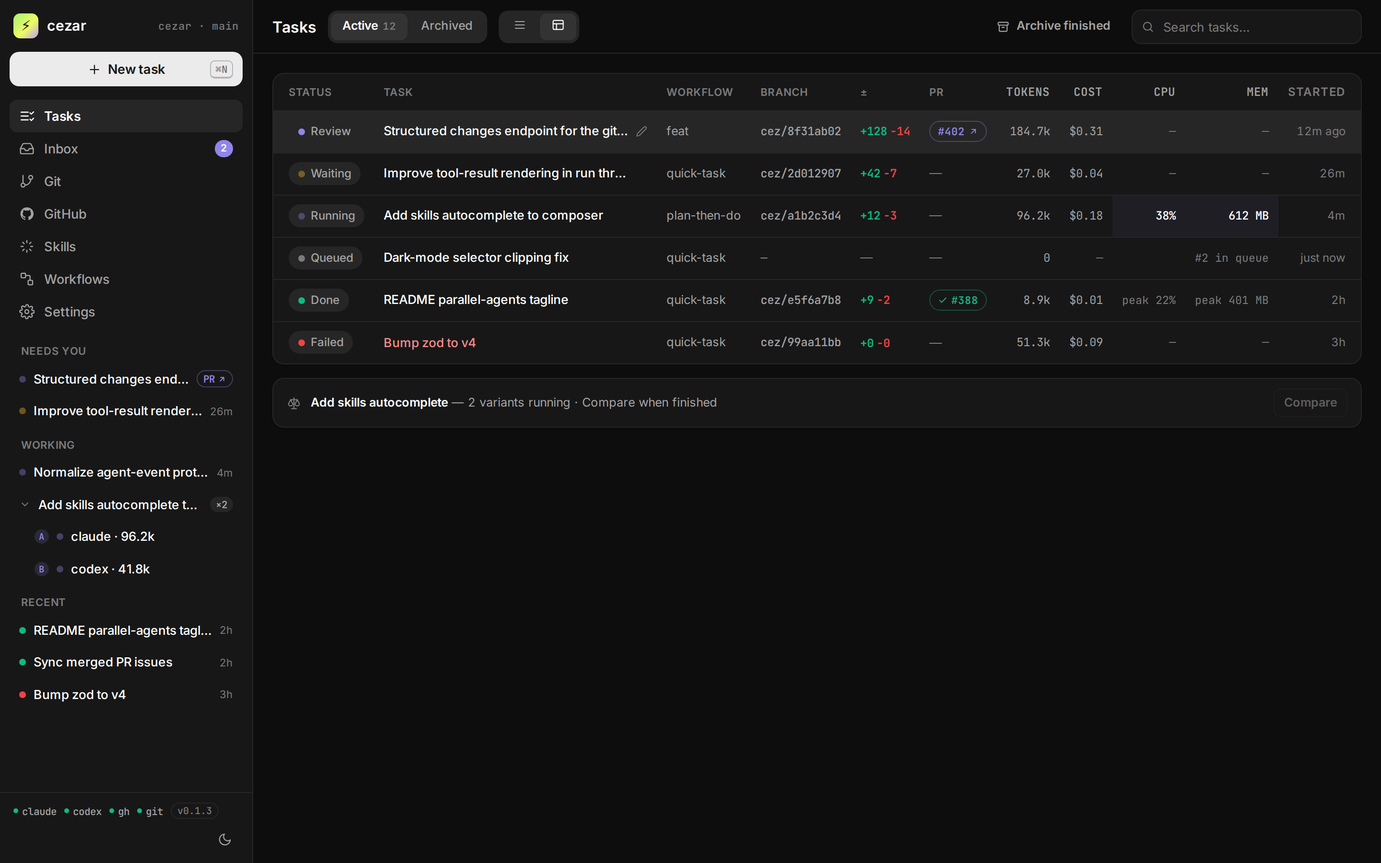
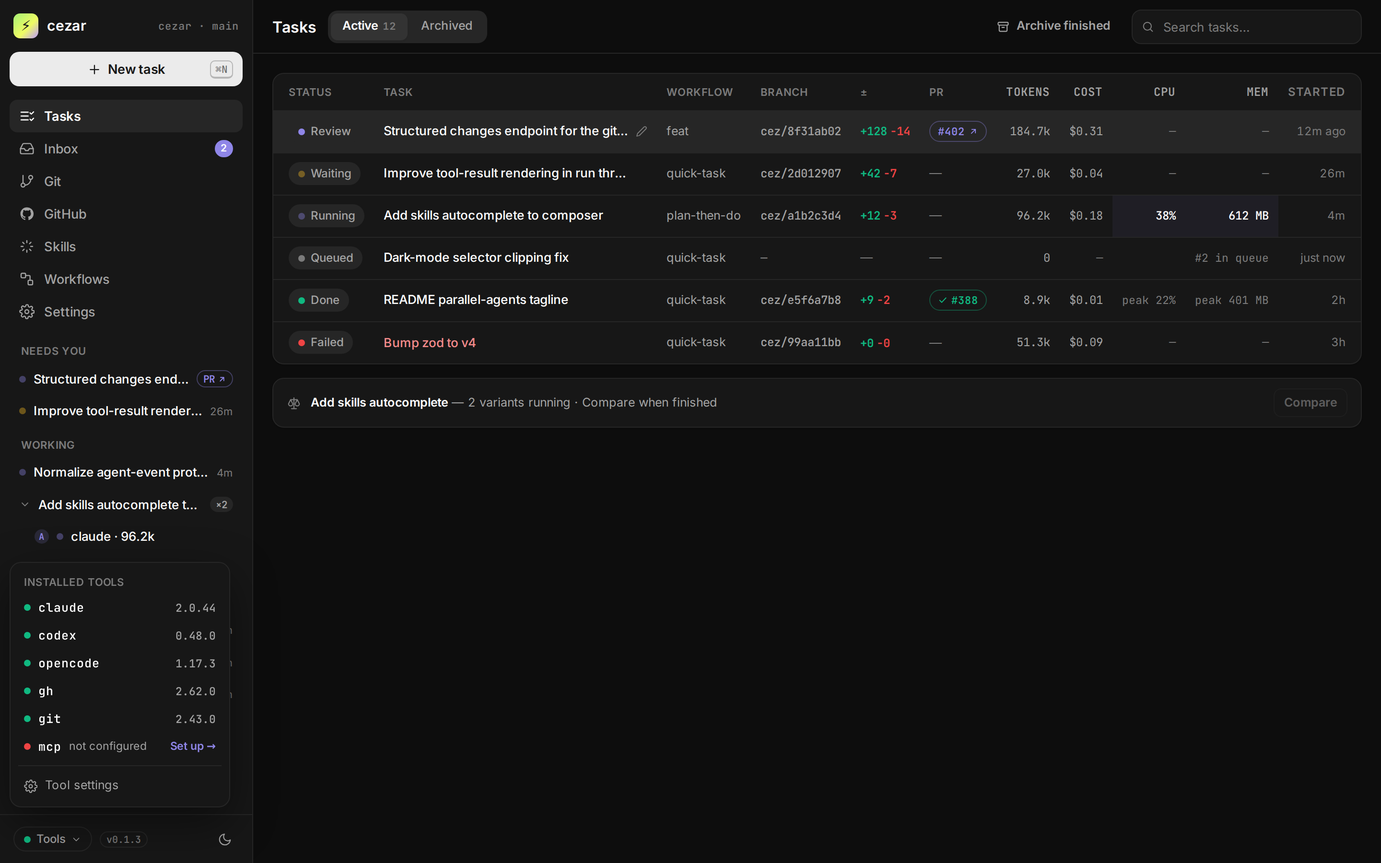
docs: de-brand the redesign (neutral naming), tools dropdown, drop obsolete view toggle, refresh all screenshots
- rename spec/plan/analysis to cockpit-ui-redesign; research file to agent-desktop-apps-ux
- remove inspiration branding from all narrative; keep factual backend names (claude/codex/opencode CLIs)
- sidebar footer: Tools dropdown (hover=versions; menu lists installed tools + versions, setup link, cog -> settings)
- tasks-home: remove list/table toggle (main's PR #392 behavior)
- reshoot all 14 screenshots

diff --git a/docs/mockups/tasks-home.html b/docs/mockups/tasks-home.html
@@ -32,11 +32,36 @@
     background: color-mix(in srgb, var(--violet) 16%, transparent); color: var(--violet);
   }
 
-  .side-foot { flex-wrap: wrap; row-gap: 6px; }
-  .env-led { display: inline-flex; align-items: center; gap: 4px; font: 500 10.5px var(--mono); color: var(--muted-foreground); }
-  .env-led i { width: 5px; height: 5px; border-radius: 999px; background: var(--success); }
+  .side-foot { position: relative; flex-wrap: wrap; row-gap: 6px; }
+  .tools-chip .dot { width: 7px; height: 7px; border-radius: 999px; flex: none; }
   .ver-chip { font: 500 10px var(--mono); color: var(--soft-foreground); border: 1px solid var(--border); border-radius: 999px; padding: 1px 6px; }
   .theme-btn { margin-left: auto; }
+
+  /* tools dropdown (shown open in this mockup) */
+  .tools-menu {
+    position: absolute; left: 10px; bottom: calc(100% + 8px); width: 230px;
+    background: var(--card); border: 1px solid var(--border);
+    border-radius: var(--radius-lg); box-shadow: var(--shadow-modal);
+    padding: 6px; z-index: 30;
+  }
+  .tools-menu .menu-label {
+    font-size: 11px; font-weight: 600; text-transform: uppercase; letter-spacing: .04em;
+    color: var(--soft-foreground); padding: 6px 8px 4px;
+  }
+  .tool-row { display: flex; align-items: center; gap: 8px; padding: 6px 8px; border-radius: var(--radius-sm); }
+  .tool-row:hover { background: var(--muted); }
+  .tool-row .dot { width: 7px; height: 7px; border-radius: 999px; flex: none; }
+  .tool-row .name { font: 500 12.5px var(--mono); }
+  .tool-row .ver { margin-left: auto; font: 500 11.5px var(--mono); color: var(--muted-foreground); font-variant-numeric: tabular-nums; }
+  .tool-row .miss { font-size: 11.5px; color: var(--muted-foreground); }
+  .tool-row .setup { margin-left: auto; font-size: 11.5px; font-weight: 600; color: var(--violet); }
+  .tools-menu .divider { margin: 5px 2px; }
+  .tools-settings {
+    display: flex; align-items: center; gap: 8px; width: 100%;
+    padding: 6px 8px; border-radius: var(--radius-sm);
+    font-size: 12.5px; color: var(--muted-foreground);
+  }
+  .tools-settings:hover { background: var(--muted); color: var(--foreground); }
 
   /* ---------- main ---------- */
   .page-head {
@@ -119,6 +144,7 @@
 
   @media (max-width: 767px) {
     .page-head, .table-wrap { display: none; }
+    .tools-menu { display: none; } /* sidebar is hidden on mobile */
     .content { padding: 12px 12px calc(90px + env(safe-area-inset-bottom)); }
 
     .cards-list { display: flex; flex-direction: column; gap: 10px; }
@@ -257,10 +283,49 @@
     </div>
 
     <div class="side-foot">
-      <span class="env-led"><i></i>claude</span>
-      <span class="env-led"><i></i>codex</span>
-      <span class="env-led"><i></i>gh</span>
-      <span class="env-led"><i></i>git</span>
+      <div class="tools-menu">
+        <div class="menu-label">Installed tools</div>
+        <div class="tool-row">
+          <span class="dot dot-success"></span>
+          <span class="name">claude</span>
+          <span class="ver">2.0.44</span>
+        </div>
+        <div class="tool-row">
+          <span class="dot dot-success"></span>
+          <span class="name">codex</span>
+          <span class="ver">0.48.0</span>
+        </div>
+        <div class="tool-row">
+          <span class="dot dot-success"></span>
+          <span class="name">opencode</span>
+          <span class="ver">1.17.3</span>
+        </div>
+        <div class="tool-row">
+          <span class="dot dot-success"></span>
+          <span class="name">gh</span>
+          <span class="ver">2.62.0</span>
+        </div>
+        <div class="tool-row">
+          <span class="dot dot-success"></span>
+          <span class="name">git</span>
+          <span class="ver">2.43.0</span>
+        </div>
+        <div class="tool-row">
+          <span class="dot dot-danger"></span>
+          <span class="name">mcp</span>
+          <span class="miss">not configured</span>
+          <a class="setup" href="#">Set up →</a>
+        </div>
+        <hr class="divider">
+        <a class="tools-settings" href="#">
+          <svg width="14" height="14" viewBox="0 0 24 24" fill="none" stroke="currentColor" stroke-width="1.8" stroke-linecap="round" stroke-linejoin="round"><circle cx="12" cy="12" r="3"/><path d="M19.4 15a1.7 1.7 0 0 0 .3 1.9l.1.1a2 2 0 1 1-2.9 2.9l-.1-.1a1.7 1.7 0 0 0-1.9-.3 1.7 1.7 0 0 0-1 1.5V21a2 2 0 1 1-4 0v-.2a1.7 1.7 0 0 0-1-1.5 1.7 1.7 0 0 0-1.9.3l-.1.1a2 2 0 1 1-2.9-2.9l.1-.1a1.7 1.7 0 0 0 .3-1.9 1.7 1.7 0 0 0-1.5-1H3a2 2 0 1 1 0-4h.2a1.7 1.7 0 0 0 1.5-1 1.7 1.7 0 0 0-.3-1.9l-.1-.1a2 2 0 1 1 2.9-2.9l.1.1a1.7 1.7 0 0 0 1.9.3h.1a1.7 1.7 0 0 0 1-1.5V3a2 2 0 1 1 4 0v.2a1.7 1.7 0 0 0 1 1.5h.1a1.7 1.7 0 0 0 1.9-.3l.1-.1a2 2 0 1 1 2.9 2.9l-.1.1a1.7 1.7 0 0 0-.3 1.9v.1a1.7 1.7 0 0 0 1.5 1h.2a2 2 0 1 1 0 4h-.2a1.7 1.7 0 0 0-1.5 1z"/></svg>
+          Tool settings
+        </a>
+      </div>
+      <button class="chip tools-chip" title="claude 2.0.44 · codex 0.48.0 · gh 2.62 · git 2.43">
+        <span class="dot dot-success"></span>Tools
+        <svg width="11" height="11" viewBox="0 0 24 24" fill="none" stroke="currentColor" stroke-width="1.8" stroke-linecap="round" stroke-linejoin="round"><path d="m6 9 6 6 6-6"/></svg>
+      </button>
       <span class="ver-chip">v0.1.3</span>
       <button class="btn btn-ghost btn-icon btn-sm theme-btn" aria-label="Toggle theme">
         <svg width="15" height="15" viewBox="0 0 24 24" fill="none" stroke="currentColor" stroke-width="1.8" stroke-linecap="round" stroke-linejoin="round"><path d="M21 12.8A9 9 0 1 1 11.2 3 7 7 0 0 0 21 12.8z"/></svg>
@@ -289,14 +354,6 @@
       <div class="seg">
         <button class="active">Active<span class="count">12</span></button>
         <button>Archived</button>
-      </div>
-      <div class="seg">
-        <button aria-label="List view">
-          <svg width="14" height="14" viewBox="0 0 24 24" fill="none" stroke="currentColor" stroke-width="1.8" stroke-linecap="round"><path d="M4 6h16M4 12h16M4 18h16"/></svg>
-        </button>
-        <button class="active" aria-label="Table view">
-          <svg width="14" height="14" viewBox="0 0 24 24" fill="none" stroke="currentColor" stroke-width="1.8" stroke-linecap="round" stroke-linejoin="round"><rect x="3" y="4" width="18" height="16" rx="2"/><path d="M3 10h18M9 10v10"/></svg>
-        </button>
       </div>
       <div class="head-spacer"></div>
       <button class="btn btn-ghost btn-sm">

diff --git a/docs/mockups/new-task.html b/docs/mockups/new-task.html
@@ -21,8 +21,8 @@
     color: var(--muted-foreground); border: 1px solid var(--border);
   }
   .side-foot .theme-btn:hover { background: var(--muted); color: var(--foreground); }
-  .env-chip { height: 22px; padding: 0 8px; font-size: 11px; gap: 5px; }
-  .env-chip .dot { width: 6px; height: 6px; }
+  .tools-chip { height: 24px; padding: 0 9px; font-size: 11.5px; }
+  .tools-chip .dot { width: 7px; height: 7px; border-radius: 999px; flex: none; }
   .ver { font: 500 11px var(--mono); color: var(--soft-foreground); }
 
   /* ---------- hero ---------- */
@@ -253,9 +253,10 @@
     </div>
 
     <div class="side-foot">
-      <span class="pill env-chip"><span class="dot dot-success"></span>git</span>
-      <span class="pill env-chip"><span class="dot dot-success"></span>gh</span>
-      <span class="pill env-chip"><span class="dot dot-neutral"></span>mcp</span>
+      <button class="chip tools-chip" title="claude 2.0.44 · codex 0.48.0 · gh 2.62 · git 2.43">
+        <span class="dot dot-success"></span>Tools
+        <svg width="11" height="11" viewBox="0 0 24 24" fill="none" stroke="currentColor" stroke-width="1.8" stroke-linecap="round" stroke-linejoin="round"><path d="m6 9 6 6 6-6"/></svg>
+      </button>
       <span class="ver">v0.9.2</span>
       <button class="theme-btn" aria-label="Toggle theme">
         <svg width="14" height="14" viewBox="0 0 24 24" fill="none" stroke="currentColor" stroke-width="1.8" stroke-linecap="round" stroke-linejoin="round"><circle cx="12" cy="12" r="4"/><path d="M12 2v2M12 20v2M4.9 4.9l1.4 1.4M17.7 17.7l1.4 1.4M2 12h2M20 12h2M4.9 19.1l1.4-1.4M17.7 6.3l1.4-1.4"/></svg>
@@ -308,7 +309,7 @@
 
         <!-- composer card -->
         <div class="composer-card">
-          <textarea class="composer-input" rows="3" aria-label="Describe a task for the agent">Improve how tool results render in the run thread — collapsed summaries with expandable detail like Codex desktop.</textarea>
+          <textarea class="composer-input" rows="3" aria-label="Describe a task for the agent">Improve how tool results render in the run thread — collapsed summaries with expandable detail, like the best agent cockpits.</textarea>
 
           <div class="attach-row">
             <span class="attach-thumb">

diff --git a/docs/mockups/thread.html b/docs/mockups/thread.html
@@ -264,8 +264,10 @@ html:not(.light) .tool-body pre { color: var(--muted-foreground); }
     </div>
 
     <div class="side-foot">
-      <span class="chip"><span class="dot dot-success" style="width:6px;height:6px;border-radius:99px"></span>claude</span>
-      <span class="chip"><span class="dot dot-success" style="width:6px;height:6px;border-radius:99px"></span>gh</span>
+      <button class="chip" title="claude 2.0.44 · codex 0.48.0 · gh 2.62 · git 2.43">
+        <span class="dot dot-success" style="width:7px;height:7px;border-radius:999px"></span>Tools
+        <svg width="11" height="11" viewBox="0 0 24 24" fill="none" stroke="currentColor" stroke-width="1.8" stroke-linecap="round" stroke-linejoin="round"><path d="m6 9 6 6 6-6"/></svg>
+      </button>
       <button class="btn btn-ghost btn-icon btn-sm" aria-label="Toggle theme">
         <svg width="15" height="15" viewBox="0 0 24 24" fill="none" stroke="currentColor" stroke-width="1.8" stroke-linecap="round" stroke-linejoin="round"><path d="M12 3a6 6 0 0 0 9 9 9 9 0 1 1-9-9Z"/></svg>
       </button>

diff --git a/docs/mockups/settings-skills.html b/docs/mockups/settings-skills.html
@@ -236,7 +236,10 @@
     </div>
 
     <div class="side-foot">
-      <span class="pill"><span class="dot dot-success"></span><span class="dot dot-success"></span><span class="dot dot-neutral"></span></span>
+      <button class="chip" title="claude 2.0.44 · codex 0.48.0 · gh 2.62 · git 2.43">
+        <span class="dot dot-success" style="width:7px; height:7px; border-radius:999px;"></span>Tools
+        <svg width="11" height="11" viewBox="0 0 24 24" fill="none" stroke="currentColor" stroke-width="1.8" stroke-linecap="round" stroke-linejoin="round"><path d="m6 9 6 6 6-6"/></svg>
+      </button>
       <span class="pill mono" style="font-size:11px;">v0.9.2</span>
       <button class="btn btn-ghost btn-sm btn-icon" style="margin-left:auto;" aria-label="Toggle theme">
         <svg width="15" height="15" viewBox="0 0 24 24" fill="none" stroke="currentColor" stroke-width="1.8" stroke-linecap="round" stroke-linejoin="round"><path d="M21 12.8A9 9 0 1 1 11.2 3 7 7 0 0 0 21 12.8z"/></svg>

diff --git a/docs/mockups/git-changes.html b/docs/mockups/git-changes.html
@@ -255,8 +255,10 @@
     </div>
 
     <div class="side-foot">
-      <span class="pill"><span class="dot dot-success"></span>git</span>
-      <span class="pill"><span class="dot dot-success"></span>gh</span>
+      <button class="chip" title="claude 2.0.44 · codex 0.48.0 · gh 2.62 · git 2.43">
+        <span class="dot dot-success" style="width:7px; height:7px; border-radius:999px;"></span>Tools
+        <svg width="11" height="11" viewBox="0 0 24 24" fill="none" stroke="currentColor" stroke-width="1.8" stroke-linecap="round" stroke-linejoin="round"><path d="m6 9 6 6 6-6"/></svg>
+      </button>
       <span class="pill mono" style="font-family:var(--mono); font-size:11px;">v0.9.2</span>
       <button class="btn btn-ghost btn-icon btn-sm" style="margin-left:auto;" aria-label="Toggle theme">
         <svg width="15" height="15" viewBox="0 0 24 24" fill="none" stroke="currentColor" stroke-width="1.8" stroke-linecap="round"><path d="M21 12.8A9 9 0 1111.2 3 7 7 0 0021 12.8z"/></svg>

diff --git a/docs/mockups/tokens.css b/docs/mockups/tokens.css
@@ -1,5 +1,5 @@
 /* cezar redesign — shared mockup tokens (Mercato design system × shadcn new-york)
-   Source: .ai/analysis/codex-ui-redesign/mercato-visuals.md
+   Source: .ai/analysis/cockpit-ui-redesign/mercato-visuals.md
    Dark is default; add class="light" on <html> for light theme. */
 
 @import url('https://fonts.googleapis.com/css2?family=Inter:wght@400;500;600;700&family=JetBrains+Mono:wght@400;500;600&display=swap');

diff --git a/.ai/specs/2026-07-14-cockpit-ui-redesign.md b/.ai/specs/2026-07-14-cockpit-ui-redesign.md
@@ -1,13 +1,13 @@
-# Codex-desktop-parity UI redesign (React + shadcn/ui)
+# Cockpit UI redesign (React + shadcn/ui)
 
 Status: proposed
-Run plan: `.ai/runs/2026-07-14-codex-ui-redesign-spec.md`
-Research: `.ai/analysis/codex-ui-redesign/` (7 studies: cezar code map, Codex desktop UX, agent event protocols, opencode web UI, paseo, mercato-sandboxes visuals, diff/highlighting tech)
+Run plan: `.ai/runs/2026-07-14-cockpit-ui-redesign-spec.md`
+Research: `.ai/analysis/cockpit-ui-redesign/` (7 studies: cezar code map, agent-desktop-apps UX, agent event protocols, opencode web UI, paseo, mercato-sandboxes visuals, diff/highlighting tech)
 Mockups: `docs/mockups/` (HTML, shadcn-styled, real cezar data) — screenshots in `docs/mockups/screenshots/`
 
 ## TLDR
 
-Rebuild cezar's cockpit (`web/`) as a React + Vite + Tailwind + shadcn/ui app with the look, feel and interaction quality of OpenAI's Codex desktop app — while keeping **every** feature cezar has today (runs, variants, review gate, plan overlay, workflows builder, multi-agent backends, skills, GitHub tab, inbox, repo view, bookmarklets). The redesign is powered by a **normalized agent-event protocol v2** (ACP-aligned; mapped from Claude Code stream-json, Codex app-server, and OpenCode SSE) so tool calls, todo/plan checklists, statuses, diffs and token usage render first-class regardless of backend. It adds a per-session **git view** (Changes/Files tabs, superb diffs and syntax highlighting, commit/push/branch, View PR) behind a **forge-driver seam** (GitHub now, GitLab-ready), a **Settings** tab (skills now; MCP and more later — coding-agent-agnostic), a full-screen **new-task** experience, handoff actions (terminal, VS Code), a dictation-labeled mic in the composer, and per-task system-prompt support. Mobile-first: great on an iPhone. Simplicity stays the product's core value: one command, zero config, everything degrades gracefully.
+Rebuild cezar's cockpit (`web/`) as a React + Vite + Tailwind + shadcn/ui app with the look, feel and interaction quality of today's leading coding-agent desktop apps — while keeping **every** feature cezar has today (runs, variants, review gate, plan overlay, workflows builder, multi-agent backends, skills, GitHub tab, inbox, repo view, bookmarklets). The redesign is powered by a **normalized agent-event protocol v2** (ACP-aligned; mapped from Claude Code stream-json, Codex app-server, and OpenCode SSE) so tool calls, todo/plan checklists, statuses, diffs and token usage render first-class regardless of backend. It adds a per-session **git view** (Changes/Files tabs, superb diffs and syntax highlighting, commit/push/branch, View PR) behind a **forge-driver seam** (GitHub now, GitLab-ready), a **Settings** tab (skills now; MCP and more later — coding-agent-agnostic), a full-screen **new-task** experience, handoff actions (terminal, VS Code), a dictation-labeled mic in the composer, and per-task system-prompt support. Mobile-first: great on an iPhone. Simplicity stays the product's core value: one command, zero config, everything degrades gracefully.
 
 ## Decisions (resolved with the user, 2026-07-14)
 
@@ -20,16 +20,16 @@ Rebuild cezar's cockpit (`web/`) as a React + Vite + Tailwind + shadcn/ui app wi
 The current cockpit is a single 3.8k-line vanilla-JS file with hand-rolled markdown, dropdowns, diff rendering and 1.9k lines of bespoke CSS. It works, but it has hit its ceiling — a dozen open issues (#354, #377–#390) are all UI/UX symptoms of the same root causes:
 
 - **Composer welded into a 318px sidebar** (#386) — the richest surface in the app (task, attachments, workflow/skill picker, runner, model, plan) is the most cramped.
-- **Tool calls and results render as flat text chips** (#381); TODO/plan lists from agents are invisible (#382); plan mode has no selected state (#383). The internal event model (`tool-call`/`tool-result`, 2 states, no plan/reasoning/diff events) can't express what Codex/Claude/OpenCode GUIs show.
+- **Tool calls and results render as flat text chips** (#381); TODO/plan lists from agents are invisible (#382); plan mode has no selected state (#383). The internal event model (`tool-call`/`tool-result`, 2 states, no plan/reasoning/diff events) can't express what the agent vendors' own GUIs show.
 - **Git integration looks like a log dump** (#390): `<pre>` diffs, no file tree, no commit/push/branch actions, no PR affordance beyond a link.
 - **Full-innerHTML re-renders** lose scroll and selection (#384), lists can't express ordering/emphasis (#377), chip-walls don't scale (#385), no autocomplete anywhere (#380), footer clips the theme toggle (#378), task titles aren't editable and carry no git stats (#389).
 - **No real mobile layout** (#354) — one narrow-screen breakpoint.
 
 Fixing these piecemeal inside string-template rendering means re-implementing React badly. The framework move and the visual redesign are one project.
 
-## Research (condensed — full notes in `.ai/analysis/codex-ui-redesign/`)
+## Research (condensed — full notes in `.ai/analysis/cockpit-ui-redesign/`)
 
-- **Codex desktop** (`codex-desktop-ux.md`): three-region layout (sidebar → thread → tabbed workbench: Files / Review / Terminal / Browser / side chat). Turns render as **collapsed activity groups** ("Edited 3 files, ran 2 commands") with edited files and commands visible, output/searches collapsed. Live plan checklist (pending/in_progress/completed). Review pane with git-state tabs, file tree, animated ±stats, hunk actions, open-in-editor. Home = **centered full-screen composer** with project/model/permission pickers. Sans-only typography (serif is marketing-only), pill controls, sparse accent, shimmer + smooth expand/collapse motion. Their stack: React + Radix + Shiki + cmdk + Framer Motion — validating ours.
+- **Agent desktop apps** (`agent-desktop-apps-ux.md`): the leading desktop cockpits use a three-region layout (sidebar → thread → tabbed workbench: Files / Review / Terminal / Browser / side chat). Turns render as **collapsed activity groups** ("Edited 3 files, ran 2 commands") with edited files and commands visible, output/searches collapsed. Live plan checklist (pending/in_progress/completed). Review pane with git-state tabs, file tree, animated ±stats, hunk actions, open-in-editor. Home = **centered full-screen composer** with project/model/permission pickers. Sans-only typography (serif is marketing-only), pill controls, sparse accent, shimmer + smooth expand/collapse motion. Their stack: React + Radix + Shiki + cmdk + Framer Motion — validating ours.
 - **Agent event protocols** (`agent-event-protocols.md`): Claude stream-json, Codex app-server (thread→turn→item), OpenCode SSE (message→part) and ACP have all converged on: an **item with explicit lifecycle** as the atomic UI unit, a small tool-status enum, **full-replacement plan checklists**, and blocking permission asks. ACP is the industry-neutral articulation; cezar's v2 schema below is ACP-aligned. cezar's current normalization drops thinking, plans, structured diffs, tool lifecycle and sub-agent attribution — all recoverable without changing backends.
 - **opencode web** (`opencode-web-ui.md`): the single most copyable pattern is a **CSS-variable Shiki theme** (highlight once, retheme instantly); also: tool cards with `{icon,title,subtitle,args}` trigger + shimmer while running, context-grouping of consecutive read/search calls, **todo dock above the composer** (todos hidden from thread), streaming markdown with stable-block caching, virtualized timeline with per-session measurement cache, `@pierre/diffs`.
 - **paseo** (`paseo-ui.md`): panel-registry architecture; tool-call display model computed in a shared protocol layer (not components); **dictation UX** (mic next to send, tooltip "Dictation", overlay with meter/partial transcript, cancel / insert / insert-and-send); git action **policy object** (state → primary/secondary/menu with self-explaining disabled reasons); attention model (permission > error > running > attention) driving status dots; "timeline sync doctrine" (streams for immediacy, fetch is authoritative). Anti-lesson: don't adopt React Native for a web-first product; don't hand-roll primitives.
@@ -42,7 +42,7 @@ One product, four moves:
 
 1. **Replatform** `web/` to React 19 + Vite + Tailwind v4 + shadcn/ui, served exactly as today (static files from the Hono server; `web/dist` built at publish time, so `npx cezar-cli` stays zero-config and offline-capable).
 2. **Normalize the wire** with an event protocol v2 (`item.*`, `plan.updated`, `turn.*`, `usage.updated`, reserved `permission.*`) computed in the runner layer, so the UI renders Claude/Codex/OpenCode identically and a future ACP backend is a transcription. v1 events remain derivable — the NDJSON files and existing GUI keep working during migration.
-3. **Redesign every view** to Codex-desktop interaction quality with the Mercato visual language (details per view below), closing all ten issues by design rather than by patch.
+3. **Redesign every view** to desktop-app interaction quality with the Mercato visual language (details per view below), closing all ten issues by design rather than by patch.
 4. **Extend capability where the redesign demands it**: session git view + forge drivers, Settings tab, system-prompt support, dictation, handoff actions, editable auto-summary titles.
 
 Alternatives considered: (a) restyle the vanilla app with shadcn-like tokens — rejected: cannot deliver tool cards, virtualized threads, plan docks, or the git view without rebuilding React primitives by hand; (b) SolidJS like opencode — rejected: shadcn/Radix/AI-Elements ecosystem is React, team familiarity favors React; (c) adopt ACP as the internal wire verbatim — rejected: cezar needs run/step/check/variant semantics ACP lacks; we align vocabulary instead.
@@ -77,7 +77,7 @@ web/
 
 ### Normalized agent-event protocol v2
 
-Full schema and per-backend mapping tables: `.ai/analysis/codex-ui-redesign/agent-event-protocols.md` §7 (authoritative). Summary:
+Full schema and per-backend mapping tables: `.ai/analysis/cockpit-ui-redesign/agent-event-protocols.md` §7 (authoritative). Summary:
 
 ```ts
 type ToolStatus = 'pending' | 'running' | 'completed' | 'failed' | 'declined';
@@ -188,7 +188,7 @@ New nav tab, registry-driven so sections grow without layout changes:
 
 - **Tokens**: Mercato sheet verbatim (`mercato-visuals.md` §1) — neutral ramp, lime `#a8f372` primary (near-black ink on it), violet `#8f86e8` secondary, `--danger #ef4444`, emerald/amber status colors (amber never as text), radius `8/10/12/16`, shadow-xs/sm/md/modal, dark `#0d0d0d` canvas with `#171717` cards and invisible borders (elevation via surface steps), light = white cards + `#ebebeb` borders. shadcn variables mapped, not duplicated.
 - **Brand**: gradient tile logo (lime→yellow→violet, dark glyph — cezar's ⚡ glyph in the Mercato construction); grain + twinkle canvas textures **only** on hero/empty/lifecycle surfaces (new-task screen, empty states, review-accepted moment) — data-dense screens stay flat; the `CenteredState` template (72px tinted icon tile + title + subtitle + actions) for every empty/loading/error state.
-- **Typography**: Inter only for UI (400/500/600; hierarchy by weight and color, not size — paseo's rule), JetBrains Mono for code/commands/paths/branches/diff-stats, `tabular-nums` for numbers. The current Source Serif 4 h1s are retired (Codex research: serif is marketing-only). Self-hosted woff2.
+- **Typography**: Inter only for UI (400/500/600; hierarchy by weight and color, not size — paseo's rule), JetBrains Mono for code/commands/paths/branches/diff-stats, `tabular-nums` for numbers. The current Source Serif 4 h1s are retired (per the desktop-apps research: serif belongs to marketing surfaces only). Self-hosted woff2.
 - **Status grammar**: one canonical `deriveAttention(run)` function (permission > error > waiting/review > running > unseen) driving a single 7px dot per row — pulsing while transitioning; pills = `bg-muted` neutral or 12% tinted fills. Same function feeds future notifications.
 - **Motion**: `transition-colors` as the workhorse; card hover-lift (150ms translate + shadow); `animate-pulse` skeletons/dots; text shimmer on running tool titles; spring height on tool-card expand (350ms, no bounce); animated ± diff-stat counters; `prefers-reduced-motion` renders static everywhere.
 - **Copy rules** (paseo constitution): sentence case, imperative buttons, states described not editorialized, one accent CTA per surface, destructive red only inside confirm dialogs. Terminology fixed: **Task** (a run), **Session** (the agent conversation), **Workflow**, **Skill**, **Changes** (the diff).
@@ -220,7 +220,7 @@ Selected run, active tab, review-gate state — all restorable from the URL; sha
 
 ### New task (full-screen, #386)
 
-- Route `/new` (also the `/new?skill=…` bookmarklet target, unchanged contract). **Centered composer** on a grain+twinkle hero surface, Codex-home style: big textarea ("Describe a task for the agent…"), then a pill row: **Workflow/Skill picker** (cmdk searchable dropdown — project skills first and bold, global after, #377/#385 pattern), **Runner** (hidden unless >1 installed), **Model**, **Variants ×1/×2/×3** (control returns — server path never left), **Base branch**, and an **advanced disclosure**: system prompt textarea.
+- Route `/new` (also the `/new?skill=…` bookmarklet target, unchanged contract). **Centered composer** on a grain+twinkle hero surface, agent-desktop home style: big textarea ("Describe a task for the agent…"), then a pill row: **Workflow/Skill picker** (cmdk searchable dropdown — project skills first and bold, global after, #377/#385 pattern), **Runner** (hidden unless >1 installed), **Model**, **Variants ×1/×2/×3** (control returns — server path never left), **Base branch**, and an **advanced disclosure**: system prompt textarea.
 - **Plan mode is a toggle, not a button** (#383): segmented `Start | Plan first` control with a clearly selected state; in plan mode, submit produces the plan review (below) instead of running.
 - Attachments: paperclip + paste, thumbnail row with remove; drag-drop anywhere on the surface.
 - Composer intelligence (shared component with thread composer): `/` opens skill autocomplete (#380) inserting `/skill-name` refs; `@` mentions files (worktree-aware, fuzzy); **mic button labeled "Dictation"** (tooltip + aria) using the Web Speech API when available — recording state swaps the footer for an overlay with timer + partial transcript + cancel / insert / insert-and-send (paseo's exact pattern); hidden with a "not supported in this browser" hint otherwise.
@@ -228,7 +228,7 @@ Selected run, active tab, review-gate state — all restorable from the URL; sha
 
 ### Task thread (the chat view)
 
-- **Turn grouping**: user message (right-aligned bubble) starts a turn; the agent's work renders as a stream of items. Consecutive read/search/list tool items collapse into **context groups** ("Explored 4 files · 2 searches", expandable); edits and commands stay visible as individual cards (Codex's post-#19891 consensus).
+- **Turn grouping**: user message (right-aligned bubble) starts a turn; the agent's work renders as a stream of items. Consecutive read/search/list tool items collapse into **context groups** ("Explored 4 files · 2 searches", expandable); edits and commands stay visible as individual cards (the desktop-apps research consensus: edits and commands visible, output collapsed).
 - **Tool cards** (#381): shadcn Collapsible with the `{icon, title, subtitle, args}` trigger — `Bash` → "Ran `npm test`" with live-streaming output (v2 `item.delta{output}`) and exit-code badge; `Edit/Write` → file path + inline `<Diff>` (word-level, expandable context); `WebFetch/Search` → labeled query/url; MCP/unknown tools → generic card with heuristic label. Title shimmers while `running`; card locked until it has detail; failed = danger tint with unwrapped error message. Older streaks fold ("▸ N earlier tool calls").
 - **Reasoning**: collapsed "Thinking…" line streaming the summary, expandable, dimmed — visible while active, folded when done.
 - **Plan/todo dock (#382)**: `plan.updated` renders a **dock pinned above the composer** (not in-thread; TodoWrite tool cards are hidden): collapsed = "3/7" odometer + current item with animated label; expanded = checkbox list (pending ○ / in_progress pulsing ◐ / completed ✓ with strikethrough animation). Also mirrored as a compact progress line in the run header.

diff --git a/.ai/runs/2026-07-14-cockpit-ui-redesign-spec.md b/.ai/runs/2026-07-14-cockpit-ui-redesign-spec.md
@@ -1,14 +1,14 @@
-# Run: Codex-desktop-parity UI redesign — specification + mockups
+# Run: Cockpit UI redesign — specification + mockups
 
 - Date: 2026-07-14
 - Branch: `feat/codex-ui-redesign-spec`
 - Base: `main`
 - Type: docs/spec (no product code changes)
-- Source brief: redesign the whole cezar cockpit UI/UX to Codex-desktop parity using React + Vite + Tailwind + shadcn/ui, keeping 100% of current functionality. Deliverable of THIS run is the specification (`.ai/specs/2026-07-14-codex-ui-redesign.md`) plus HTML mockups built with shadcn styling on real cezar data, with screenshots attached to the PR — so the spec can be approved visually and then implemented autonomously.
+- Source brief: redesign the whole cezar cockpit UI/UX to leading-desktop-app parity using React + Vite + Tailwind + shadcn/ui, keeping 100% of current functionality. Deliverable of THIS run is the specification (`.ai/specs/2026-07-14-cockpit-ui-redesign.md`) plus HTML mockups built with shadcn styling on real cezar data, with screenshots attached to the PR — so the spec can be approved visually and then implemented autonomously.
 
 ## Goal
 
-Produce an implementation-ready, phased specification for the full UI redesign, grounded in research (Codex desktop, Claude Code, opencode web, paseo, mercato-sandboxes visual language, agent event protocols incl. ACP), with high-fidelity HTML mockups and screenshots that prove the design direction.
+Produce an implementation-ready, phased specification for the full UI redesign, grounded in research (leading agent desktop apps, opencode web, paseo, mercato-sandboxes visual language, agent event protocols incl. ACP), with high-fidelity HTML mockups and screenshots that prove the design direction.
 
 ## Decisions locked with the user (2026-07-14)
 
@@ -27,7 +27,7 @@ Folded into the spec as requirements: #390 (git integration look), #389 (task li
 
 ## Risks
 
-- Research sources (Codex desktop, external repos) are external; findings recorded to `.ai/analysis/` so the spec stays reviewable offline.
+- Research sources (vendor desktop apps, external repos) are external; findings recorded to `.ai/analysis/` so the spec stays reviewable offline.
 - Mockups are static HTML approximations of the future React app — close enough for visual approval, not pixel-contracts.
 - The local checkout was behind origin/main, which hid PR #343's existing pipeline bootstrap; the run initially regenerated the process docs and later restored the origin/main versions (commit history keeps both). Validation gate = `npm run typecheck` + `npm run build` (docs-only run: gate proves the repo stays healthy).
 
@@ -39,12 +39,12 @@ PR: #393
 
 ### Phase 1: Research
 
-- [x] 1.1 Parallel research: cezar code map, Codex desktop UX, agent event protocols (Claude/Codex/OpenCode/ACP), opencode web UI, paseo, mercato-sandboxes visuals, diff/highlighting tech — 4b804d3
+- [x] 1.1 Parallel research: cezar code map, agent-desktop-apps UX, agent event protocols (Claude/Codex/OpenCode/ACP), opencode web UI, paseo, mercato-sandboxes visuals, diff/highlighting tech — 4b804d3
 - [x] 1.2 Commit distilled research notes to .ai/analysis/ — 06fcf59
 
 ### Phase 2: Specification
 
-- [x] 2.1 Spec skeleton with resolved decisions (.ai/specs/2026-07-14-codex-ui-redesign.md) — 4b804d3
+- [x] 2.1 Spec skeleton with resolved decisions (.ai/specs/2026-07-14-cockpit-ui-redesign.md) — 4b804d3
 - [x] 2.2 Full spec: architecture, normalized event protocol, view-by-view UX, git GUI + forge drivers, settings, mobile-first rules, edge cases, risks — 5f913fa
 - [x] 2.3 Phased implementation plan (each step shippable, app always working) — 5f913fa
 

diff --git a/docs/mockups/README.md b/docs/mockups/README.md
@@ -1,6 +1,6 @@
 # UI redesign mockups
 
-High-fidelity static HTML mockups for the Codex-desktop-parity redesign — spec: [`.ai/specs/2026-07-14-codex-ui-redesign.md`](../../.ai/specs/2026-07-14-codex-ui-redesign.md).
+High-fidelity static HTML mockups for the cockpit UI redesign — spec: [`.ai/specs/2026-07-14-cockpit-ui-redesign.md`](../../.ai/specs/2026-07-14-cockpit-ui-redesign.md).
 
 Built on real cezar data (run `2d012907`'s actual NDJSON events, real skill names, real `src/server/git.ts` content) and a shared token sheet ([`tokens.css`](tokens.css)) implementing the Mercato design system (neutral ramp, lime/violet accents, Inter + JetBrains Mono, shadcn-style primitives). No JavaScript, no external assets besides the fonts import — open any file directly in a browser. Dark is default; add `class="light"` to `<html>` for the light theme.
 
